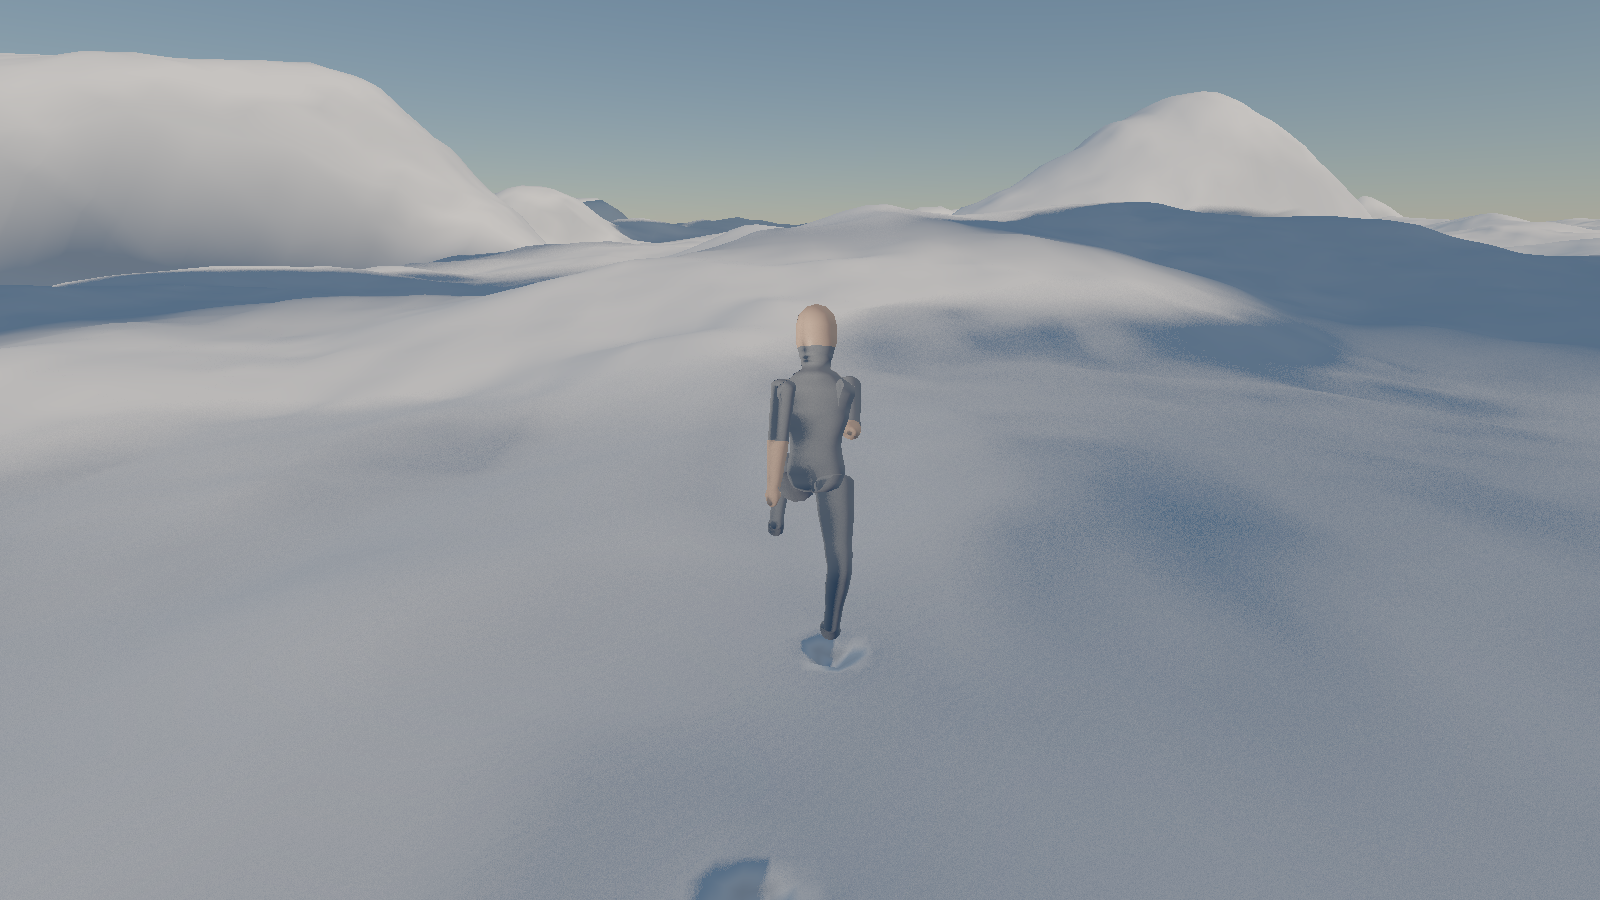
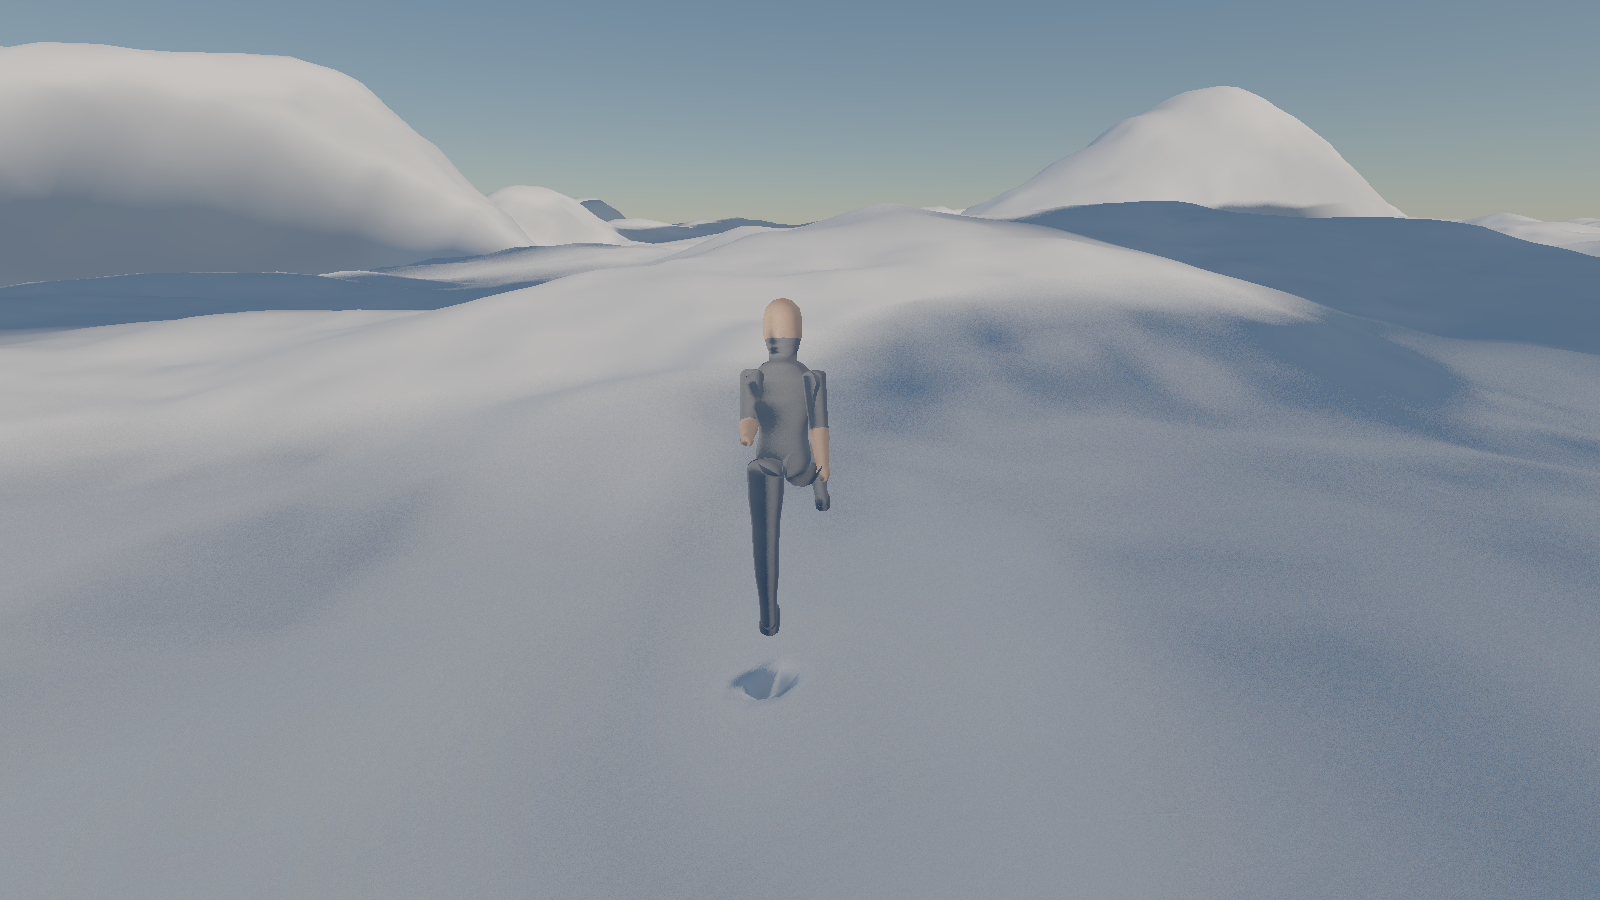
fix: the walk/run transition keyed off a slider labelled "walk"
The last of the gait feel. Everything keyed off speed / char.walkSpeed, which
quietly asserted that whatever the slider says is a walk. It says 3.2 m/s,
and 3.2 m/s is a RUN for a 1.8 m figure — so the gait used a walking duty of
0.62 at a speed nobody walks at, and the geometry cap then held the stride
down to something needing 4.3 steps a second. Humans transition at about
2 m/s regardless of what the slider is called.

So the transition is on absolute speed now, and the stride follows from a
cadence a human would actually use rather than from a fixed length:

              cadence      stride      leg ext p50   full stretch
  3.2 m/s     3.1 /s       1.03 m      82%           1.2%
  7.7 m/s     3.6 /s       2.13 m      71%           11.5%

Real walking is about 2 steps/s and a real sprint about 3.5, so both are now
in range. Before any of this it was 4.3 and 10.2.

Two things the numbers could not have told me, and a screenshot did:

- Duty at 0.20 with the crouch coupled to speed put the hip 20 cm below
  standing height, and the sprint pose read as a squat rather than a run.
  Passing every check and still looking wrong is the whole reason to look.
  The running crouch came back to 0.04 of leg length.
- The stride slider had quietly stopped doing anything, since the stride is
  derived. It is a SCALE on the derived stride now, 0.75 meaning unchanged,
  which is a control that still means what it looks like it means.
[…]

diff --git a/src/character/gait.ts b/src/character/gait.ts
@@ -41,19 +41,27 @@ const MAX_PLANTS = 4;
 
 /** Fraction of a foot's cycle spent on the ground, walking and running. */
 const DUTY_WALK = 0.62;
-const DUTY_RUN = 0.32;
+/** A sprinter is airborne for most of the cycle. This is what buys a long stride. */
+const DUTY_RUN = 0.20;
 
 /**
- * Hip height while moving, as a fraction of leg length, and how fast stride grows.
+ * Where walking becomes running, in metres per second — ABSOLUTE, not relative.
  *
- * The hip figure has to match the one the pose actually uses, because the stride cap is
- * derived from it — a cap computed against a taller hip than the character stands at
- * would allow a stride the leg cannot reach, which is the locked-leg bug again by
- * another route.
+ * Everything used to key off speed divided by char.walkSpeed, which quietly asserted that
+ * whatever the slider says is a walk. It says 3.2 m/s, and 3.2 m/s is a run for a 1.8 m
+ * figure — so the gait used a walking duty of 0.62 at a speed no one walks at, and the
+ * geometry cap then held the stride down to something that needed 4.3 steps a second.
+ * A human transitions at about 2 m/s regardless of what any slider is called.
  */
+const RUN_FROM = 1.8;
+const RUN_TO = 5.5;
 
-/** Most of a human's extra speed is stride, not cadence. */
-const STRIDE_EXPONENT = 0.7;
+/** Steps per second at a stroll and at a sprint. Cadence barely moves; stride does. */
+const CADENCE_WALK = 1.95;
+const CADENCE_RUN = 3.6;
+
+/** The stride slider reads as a scale against this, so its default means "unchanged". */
+const STRIDE_REFERENCE = 0.75;
 
 /** How fast the figure settles into a standing pose once it stops, per second. */
 const SETTLE_RATE = 9;
@@ -215,7 +223,9 @@ export class Gait {
         this._sin = Math.sin(mover.facing);
 
         // A walk rolls through a long stance; a run spends most of the cycle airborne.
-        const duty = Math.min(Math.max(DUTY_WALK + (DUTY_RUN - DUTY_WALK) * clamp01(speedRatio - 1), 0.28), 0.75);
+        // How far into running the character is, on the clock of absolute speed.
+        const run = clamp01((mover.speed - RUN_FROM) / (RUN_TO - RUN_FROM));
+        const duty = DUTY_WALK + (DUTY_RUN - DUTY_WALK) * run;
         this._duty = duty;
 
         // STRIDE GROWS WITH SPEED, AND IS CAPPED BY THE LEGS.
@@ -238,9 +248,18 @@ export class Gait {
         // the character actually stands at licenses a stride the leg cannot make — and
         // the leg-reach clamp then drags the foot short of where the gait put it, which
         // on sloped ground reads as the foot sinking into the hill.
-        this._hipHeight = LEG * (0.97 - 0.14 * (1 - this._stand) - 0.07 * clamp01(speedRatio - 1));
+        this._hipHeight = LEG * (0.97 - 0.14 * (1 - this._stand) - 0.04 * run);
         const reach = Math.sqrt(Math.max(LEG * LEG - this._hipHeight * this._hipHeight, 0)) * 0.95;
-        const stride = Math.min(Math.max(s["char.strideLength"], 0.05) * Math.pow(Math.max(speedRatio, 0.15), STRIDE_EXPONENT), reach / duty);
+        // Stride follows from a cadence a human would actually use, and is then held to
+        // what the legs can span. The slider still sets the walking stride; below the run
+        // threshold it is what it always was.
+        const cadence = CADENCE_WALK + (CADENCE_RUN - CADENCE_WALK) * run;
+        // The slider scales the whole gait rather than setting one number, because the
+        // stride is derived now. At its default it is exactly 1, so the control still
+        // means what it did — longer steps, fewer of them — without pretending to fix a
+        // length that speed and leg geometry between them decide.
+        const scale = Math.max(s["char.strideLength"], 0.05) / STRIDE_REFERENCE;
+        const stride = Math.min(Math.max((mover.speed / cadence) * scale, 0.12), reach / duty);
         this._stride = stride;
 
         // Standing is a separate state, cross-faded in. The cycle is phased on distance,

diff --git a/src/core/settings.ts b/src/core/settings.ts
@@ -232,7 +232,7 @@ export const SCHEMA = {
     "char.turnRate": num({ group: "Character", label: "Turn rate", def: 540, min: 90, max: 1440, step: 10, unit: "deg/s", advanced: true }),
     // The gait, and the footfalls it lays. Stride length is the one number both the legs
     // and the prints are phased on, which is why a print stays under the foot that made it.
-    "char.strideLength": num({ group: "Character", label: "Stride length", def: 0.75, min: 0.2, max: 2.5, step: 0.05, unit: "m", hint: "Ground between prints, and one step of the walk cycle. Phased on distance, not time, so it holds at any speed." }),
+    "char.strideLength": num({ group: "Character", label: "Stride scale", def: 0.75, min: 0.2, max: 2.5, step: 0.05, unit: "m", hint: "Scales the stride the gait derives from speed and leg length. 0.75 leaves it unchanged. Still phased on distance, not time." }),
     "char.stanceWidth": num({ group: "Character", label: "Stance width", def: 0.28, min: 0, max: 1, step: 0.01, unit: "m" }),
     "char.stepLift": num({ group: "Character", label: "Step lift", def: 0.13, min: 0, max: 0.6, step: 0.01, unit: "m", hint: "Ground clearance at mid-swing. A swinging foot never drops below the terrain regardless." }),
     "char.armSwing": num({ group: "Character", label: "Arm swing", def: 34, min: 0, max: 90, step: 1, unit: "deg", hint: "Counter-phased against the legs. Zero reads as a shuffle." }),

diff --git a/README.md b/README.md
@@ -679,8 +679,10 @@ Measured on the card, walking and sprinting, by [checkGait.mjs](scripts/checkGai
 | --- | --- | --- |
 | stance drift, worst of all contacts | **0.0 cm** | **0.0 cm** |
 | body travel per frame, for scale | 1.4 cm | 3.3 cm |
+| cadence | 3.1 steps/s | 3.6 steps/s |
+| leg extension, median | 82% | 71% |
 | print to the ankle that made it | 0.5 cm | 2.7 cm |
-| stride paced out between prints | **0.750 m** (set: 0.750) | **0.750 m** |
+| stride paced out between prints | **1.027 m** (gait chose 1.027) | **2.128 m** |
 | contact foot against the terrain | 0.0 cm float, 0.0 cm sink | 0.0 cm / 0.0 cm |
 
 **The footfall moved out of the carve pass and into the gait.** Phases 3 to 6 kept their
